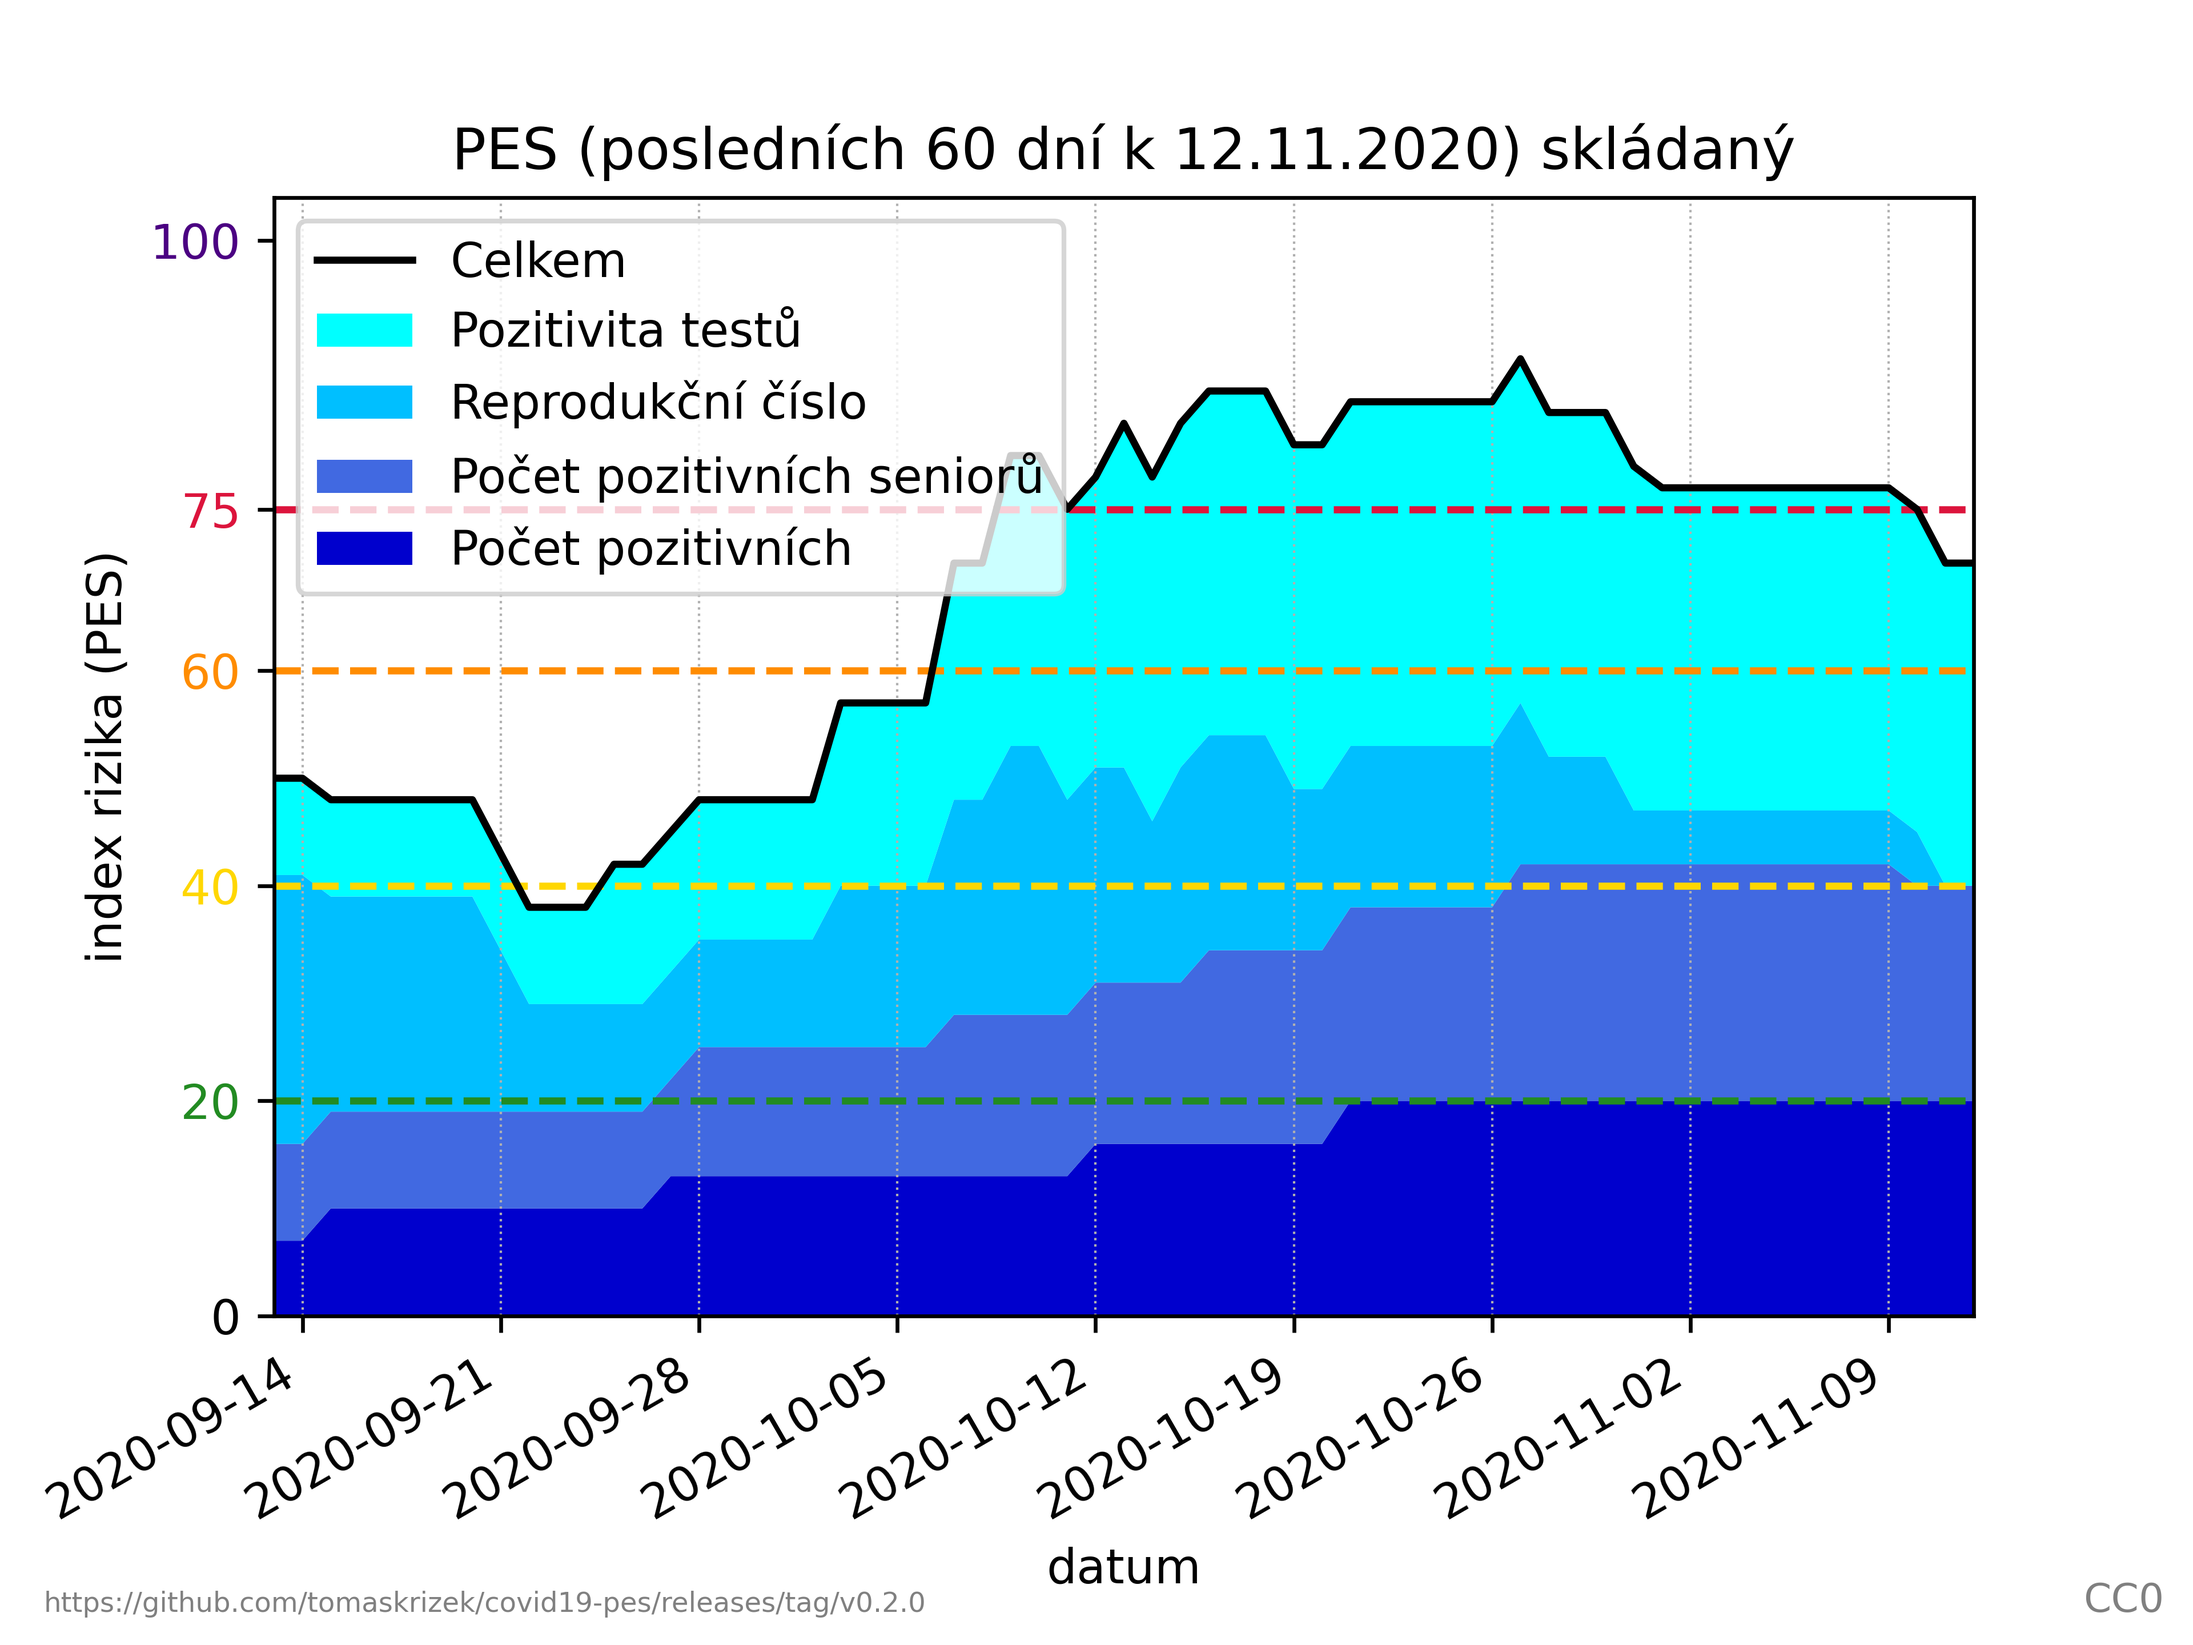
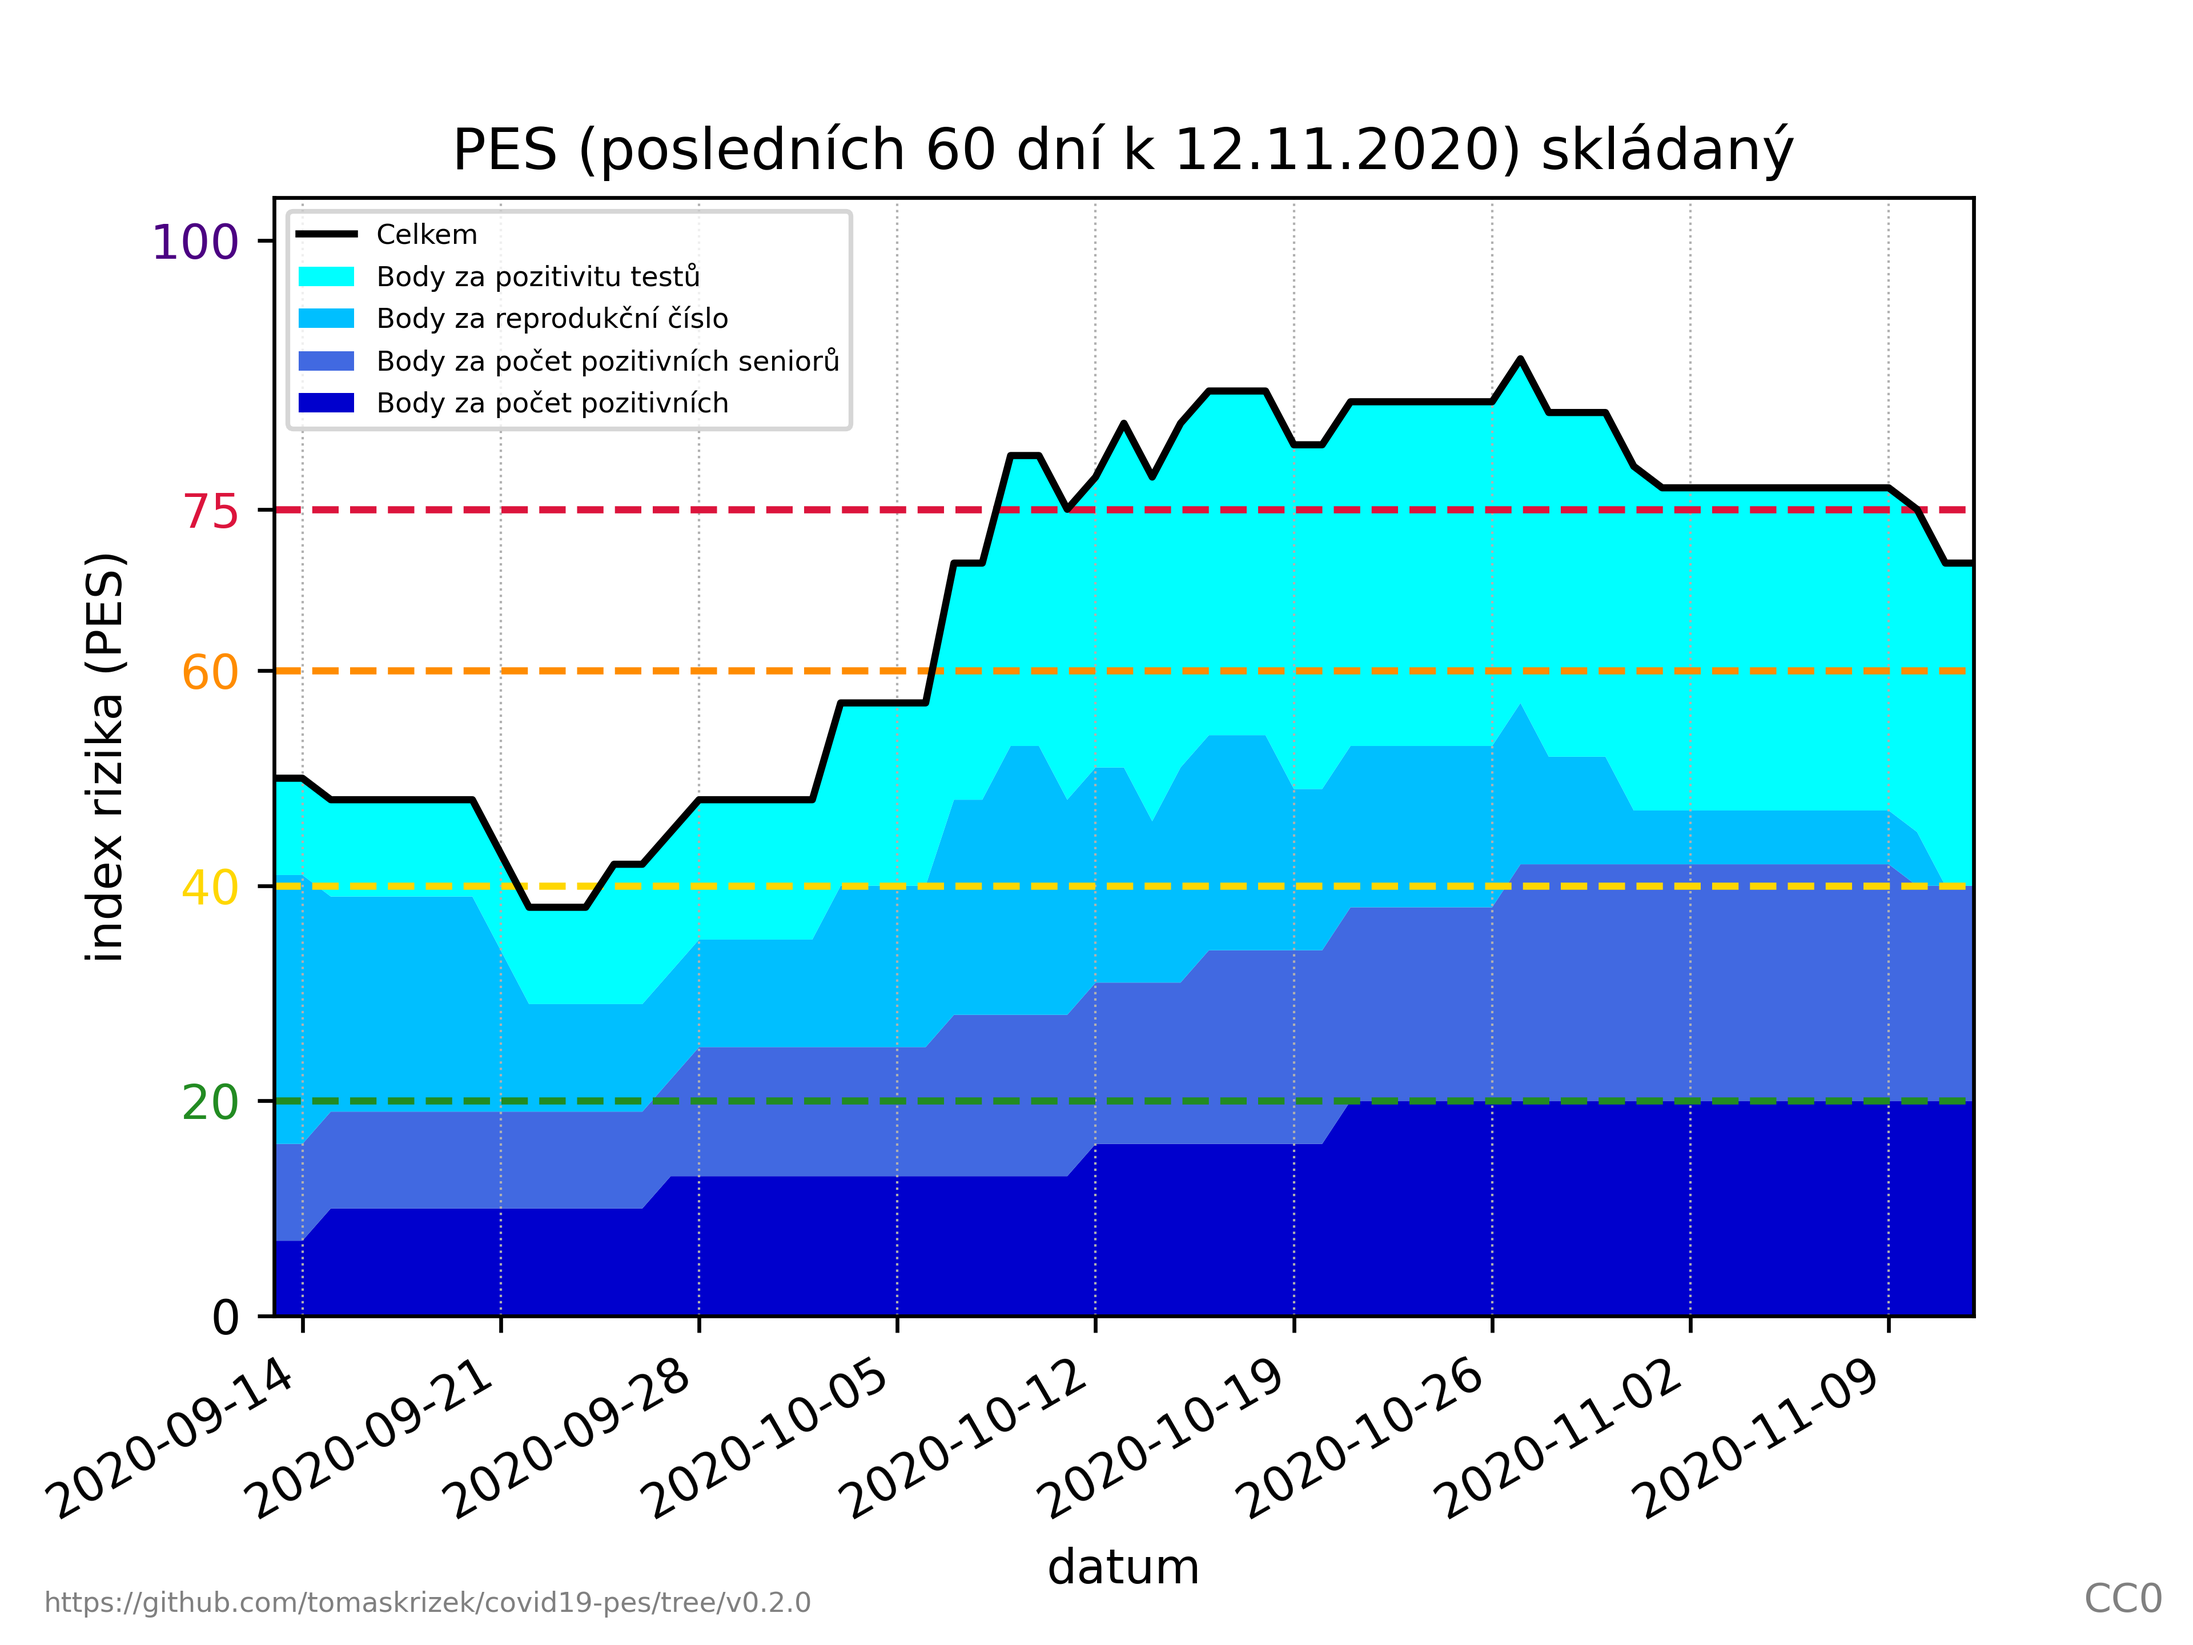
Clarify legend for stacked plot

Changed region(s): [[0.125, 0.125, 0.5, 0.375], [0.3125, 0.9688, 0.4062, 1.0]]

diff --git a/pes.py b/pes.py
@@ -265,15 +265,15 @@ def stacked_plot(fpath, pes_vals, x_vals):
         x_vals,
         y0, y1, y2, y3,
         labels=(
-            'Počet pozitivních',
-            'Počet pozitivních seniorů',
-            'Reprodukční číslo',
-            'Pozitivita testů'),
+            'Body za počet pozitivních',
+            'Body za počet pozitivních seniorů',
+            'Body za reprodukční číslo',
+            'Body za pozitivitu testů'),
         colors=('mediumblue', 'royalblue', 'deepskyblue', 'cyan'),
     )
     cumulative_line = ax.plot(x_vals, y, color='black', label='Celkem')
 
-    plt.legend(handles=(plot_collection + cumulative_line)[::-1], loc='upper left')
+    plt.legend(handles=(plot_collection + cumulative_line)[::-1], loc='upper left', fontsize='xx-small')
 
     plt.savefig(fpath, dpi=600)
 
